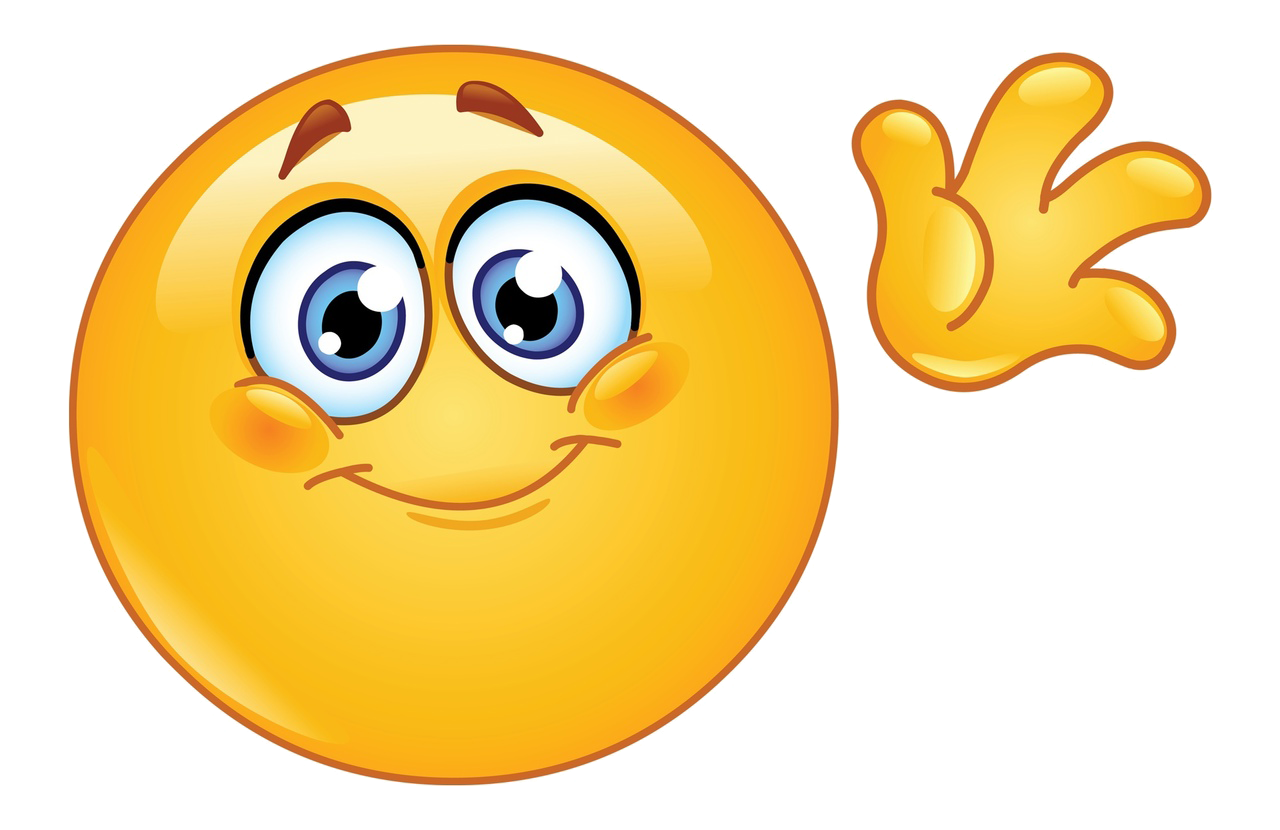
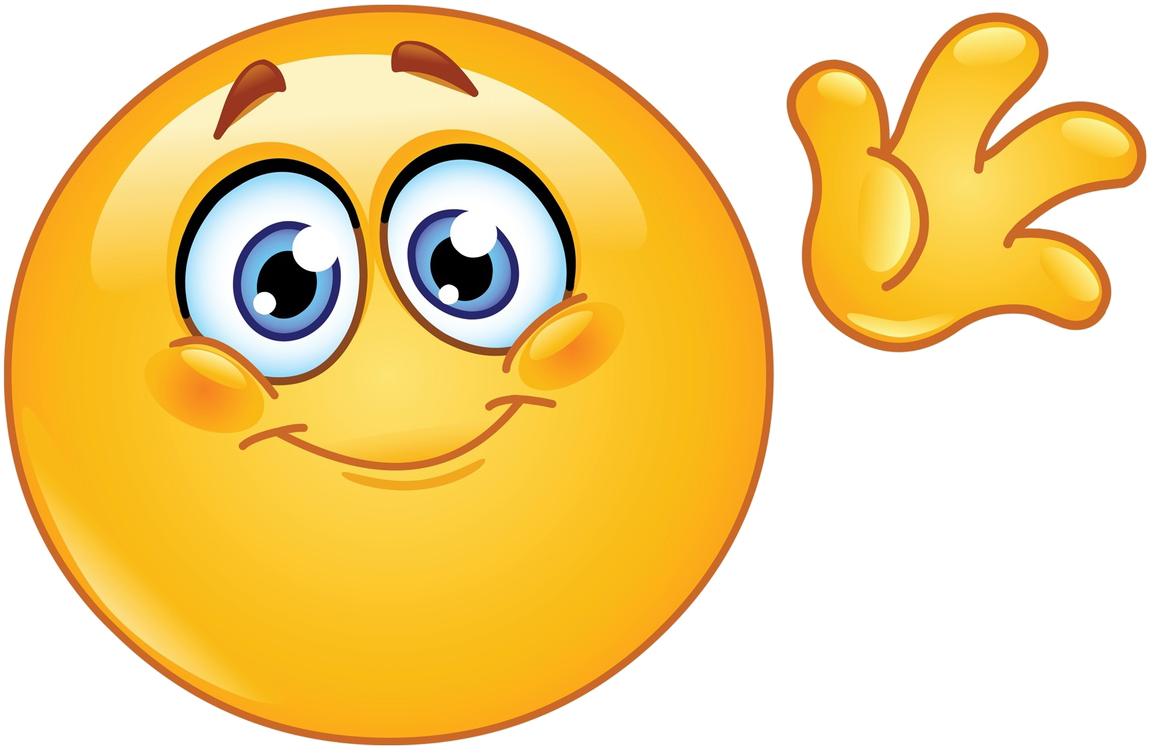
e2

diff --git a/PageUse/RegLog.xaml b/PageUse/RegLog.xaml
@@ -5,10 +5,37 @@
       xmlns:d="http://schemas.microsoft.com/expression/blend/2008" 
       xmlns:local="clr-namespace:ProgrammEasy.PageUse"
       mc:Ignorable="d" 
-      d:DesignHeight="450" d:DesignWidth="800"
+      d:DesignHeight="400" d:DesignWidth="500"
       Title="RegLog">
 
     <Grid>
-        
+        <Grid.ColumnDefinitions>
+            <ColumnDefinition Width="*"/>
+            <ColumnDefinition Width="*"/>
+            <ColumnDefinition Width="*"/>
+            <ColumnDefinition Width="*"/>
+        </Grid.ColumnDefinitions>
+        <Grid.RowDefinitions>
+            <RowDefinition Height="*"/>
+            <RowDefinition Height="*"/>
+            <RowDefinition Height="*"/>
+            <RowDefinition Height="*"/>
+            <RowDefinition Height="*"/>
+        </Grid.RowDefinitions>
+        <TextBlock Text="Отлично!" HorizontalAlignment="Center" VerticalAlignment="Center" FontFamily="Comic Sans MS" FontSize="24" FontWeight="Bold" Grid.Column="1"/>
+        <StackPanel Grid.Row="1" Grid.ColumnSpan="4" HorizontalAlignment="Center" VerticalAlignment="Center" Orientation="Horizontal">
+            <TextBlock Text="А теперь," FontSize="24"/>
+            <TextBlock x:Name="SaveNameTB" FontSize="24" FontWeight="Bold"/>
+            <TextBlock Text="," FontSize="24"/>
+        </StackPanel>
+        <StackPanel Grid.Row="2" Grid.ColumnSpan="4" HorizontalAlignment="Center" VerticalAlignment="Center" Orientation="Horizontal">
+            <TextBlock Text="придумай и напиши " FontSize="24"/>
+            <TextBlock Text="Login" Style="{StaticResource TextHoverStyle}" x:Name="LogInfoBT" Foreground="#FF06199A" FontSize="24" FontWeight="Bold" Cursor="Hand" ToolTip="Нажми для подсказки" MouseLeftButtonDown="LogInfoBT_MouseLeftButtonDown"/>
+            <TextBlock Text=":" FontSize="24"/>
+        </StackPanel>
+        <TextBox x:Name="UserlogTB" Grid.Row="3" Grid.ColumnSpan="4" HorizontalAlignment="Center" VerticalAlignment="Center" FontSize="24" Width="250"/>
+        <Button x:Name="NextBT" Content="Продолжить" Grid.Row="4" Grid.Column="2" Grid.ColumnSpan="2" HorizontalAlignment="Center" VerticalAlignment="Center" Height="50" Width="180" FontSize="20" FontWeight="Bold" Background="#FF62E5FF" Click="NextBT_Click" Cursor="Hand"/>
+        <Button x:Name="GoMainWinBT" Content="Назад" Grid.Row="4" Grid.ColumnSpan="2" HorizontalAlignment="Center" VerticalAlignment="Center" Height="50" Width="180" FontSize="20" FontWeight="Bold" Background="{x:Null}" Click="GoMainWinBT_Click" Cursor="Hand"/>
+        <Image Grid.Column="2" HorizontalAlignment="Center" VerticalAlignment="Center" Source="/Recourse/Cool.png"/>
     </Grid>
 </Page>

diff --git a/PageUse/RegName.xaml b/PageUse/RegName.xaml
@@ -27,7 +27,7 @@
         <TextBlock Text="Как тебя зовут? Напиши свое имя:" Grid.ColumnSpan="4" HorizontalAlignment="Center" VerticalAlignment="Center" FontFamily="Comic Sans MS" FontSize="24" FontWeight="Bold" Grid.Row="2"/>
         <TextBox x:Name="UserNameTB" Grid.Row="3" Grid.ColumnSpan="4" HorizontalAlignment="Center" VerticalAlignment="Center" FontSize="24" Width="250"/>
         <Button x:Name="NextBT" Content="Продолжить" Grid.Row="4" Grid.Column="2" Grid.ColumnSpan="2" HorizontalAlignment="Center" VerticalAlignment="Center" Height="50" Width="180" FontSize="20" FontWeight="Bold" Background="#FF62E5FF" Click="NextBT_Click" Cursor="Hand"/>
-        <Button x:Name="GoMainWinBT" Content="Вернуться назад" Grid.Row="4" Grid.ColumnSpan="2" HorizontalAlignment="Center" VerticalAlignment="Center" Height="50" Width="180" FontSize="20" FontWeight="Bold" Background="{x:Null}" Click="GoMainWinBT_Click" Cursor="Hand"/>
+        <Button x:Name="GoMainWinBT" Content="Назад" Grid.Row="4" Grid.ColumnSpan="2" HorizontalAlignment="Center" VerticalAlignment="Center" Height="50" Width="180" FontSize="20" FontWeight="Bold" Background="{x:Null}" Click="GoMainWinBT_Click" Cursor="Hand"/>
         <Image Grid.Column="2" HorizontalAlignment="Center" VerticalAlignment="Center" Source="/Recourse/Hello.png"/>
     </Grid>
 </Page>

diff --git a/App.xaml b/App.xaml
@@ -24,5 +24,25 @@
                 </Setter.Value>
             </Setter>
         </Style>
+        <Style x:Key="TextHoverStyle" TargetType="TextBlock">
+            <Style.Triggers>
+                <Trigger Property="IsMouseOver" Value="True">
+                    <Trigger.EnterActions>
+                        <BeginStoryboard>
+                            <Storyboard>
+                                <DoubleAnimation Storyboard.TargetProperty="FontSize" To="26" Duration="0:0:0.2"/>
+                            </Storyboard>
+                        </BeginStoryboard>
+                    </Trigger.EnterActions>
+                    <Trigger.ExitActions>
+                        <BeginStoryboard>
+                            <Storyboard>
+                                <DoubleAnimation Storyboard.TargetProperty="FontSize" To="24" Duration="0:0:0.2"/>
+                            </Storyboard>
+                        </BeginStoryboard>
+                    </Trigger.ExitActions>
+                </Trigger>
+            </Style.Triggers>
+        </Style>
     </Application.Resources>
 </Application>

diff --git a/PageUse/RegLastName.xaml b/PageUse/RegLastName.xaml
@@ -26,6 +26,6 @@
         <TextBox x:Name="UserLastNameTB" Grid.Row="3" Grid.ColumnSpan="4" HorizontalAlignment="Center" VerticalAlignment="Center" FontSize="24" Width="250"/>
         <Button x:Name="NextBT" Content="Продолжить" Grid.Row="4" Grid.Column="2" Grid.ColumnSpan="2" HorizontalAlignment="Center" VerticalAlignment="Center" Height="50" Width="180" FontSize="20" FontWeight="Bold" Background="#FF62E5FF" Click="NextBT_Click" Cursor="Hand"/>
         <Button x:Name="GoBackBT" Content="Назад" Grid.Row="4" Grid.ColumnSpan="2" HorizontalAlignment="Center" VerticalAlignment="Center" Height="50" Width="180" FontSize="20" FontWeight="Bold" Background="{x:Null}" Click="GoBackBT_Click" Cursor="Hand"/>
-        <Image Grid.Column="2" HorizontalAlignment="Center" VerticalAlignment="Center" Source="/Recourse/Cool.png" Grid.Row="1"/>
+        <Image Grid.Column="2" HorizontalAlignment="Center" VerticalAlignment="Center" Source="/Recourse/Cool2.png" Grid.Row="1"/>
     </Grid>
 </Page>

diff --git a/WinUse/Registration.xaml b/WinUse/Registration.xaml
@@ -23,6 +23,6 @@
             <RowDefinition Height="*"/>
             <RowDefinition Height="20"/>
         </Grid.RowDefinitions>
-        <Frame x:Name="RegFrame" NavigationUIVisibility="Hidden" Grid.Row="1" Grid.Column="1"/>
+       <Frame x:Name="RegFrame" NavigationUIVisibility="Hidden" Grid.Row="1" Grid.Column="1"/>   
     </Grid>
 </Window>

diff --git a/PageUse/RegLog.xaml.cs b/PageUse/RegLog.xaml.cs
@@ -24,5 +24,20 @@ namespace ProgrammEasy.PageUse
         {
             InitializeComponent();
         }
+
+        private void LogInfoBT_MouseLeftButtonDown(object sender, MouseButtonEventArgs e)
+        {
+
+        }
+
+        private void NextBT_Click(object sender, RoutedEventArgs e)
+        {
+
+        }
+
+        private void GoMainWinBT_Click(object sender, RoutedEventArgs e)
+        {
+            NavigationService.GoBack();
+        }
     }
 }
